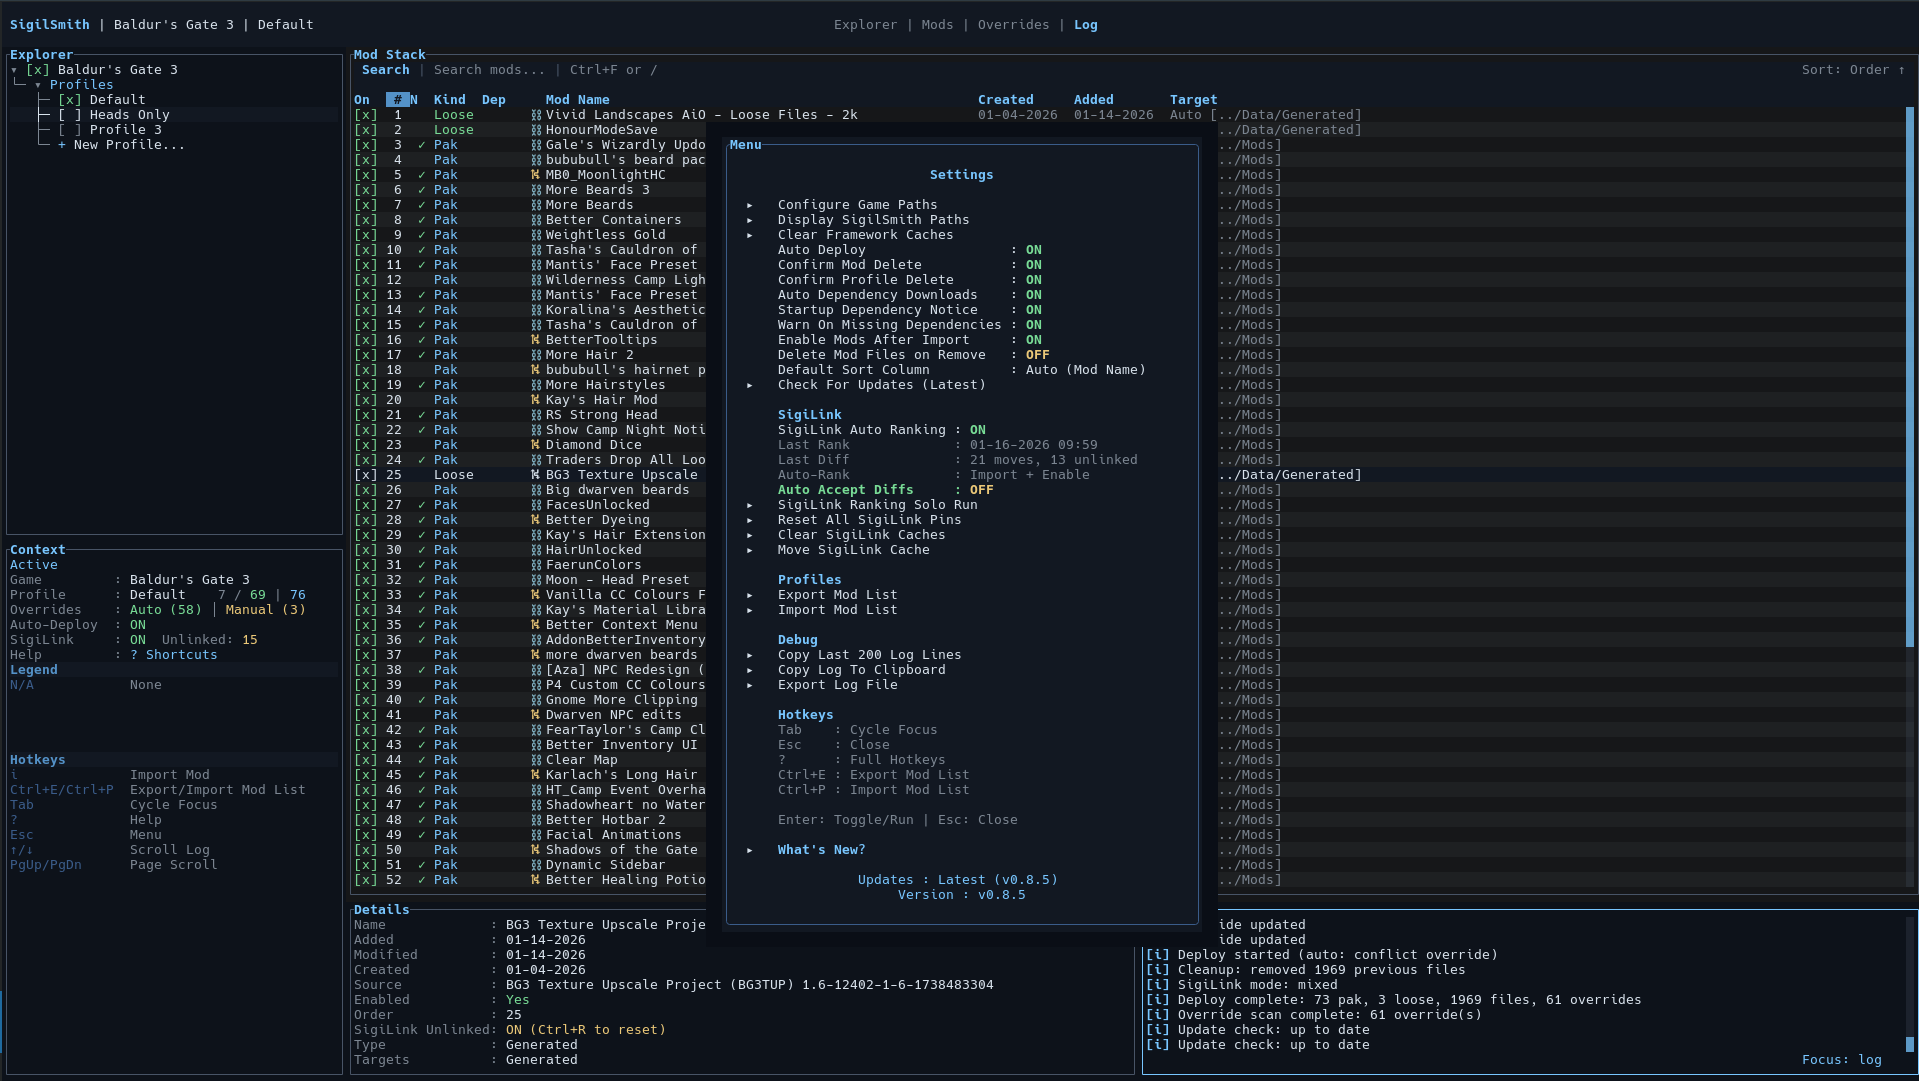
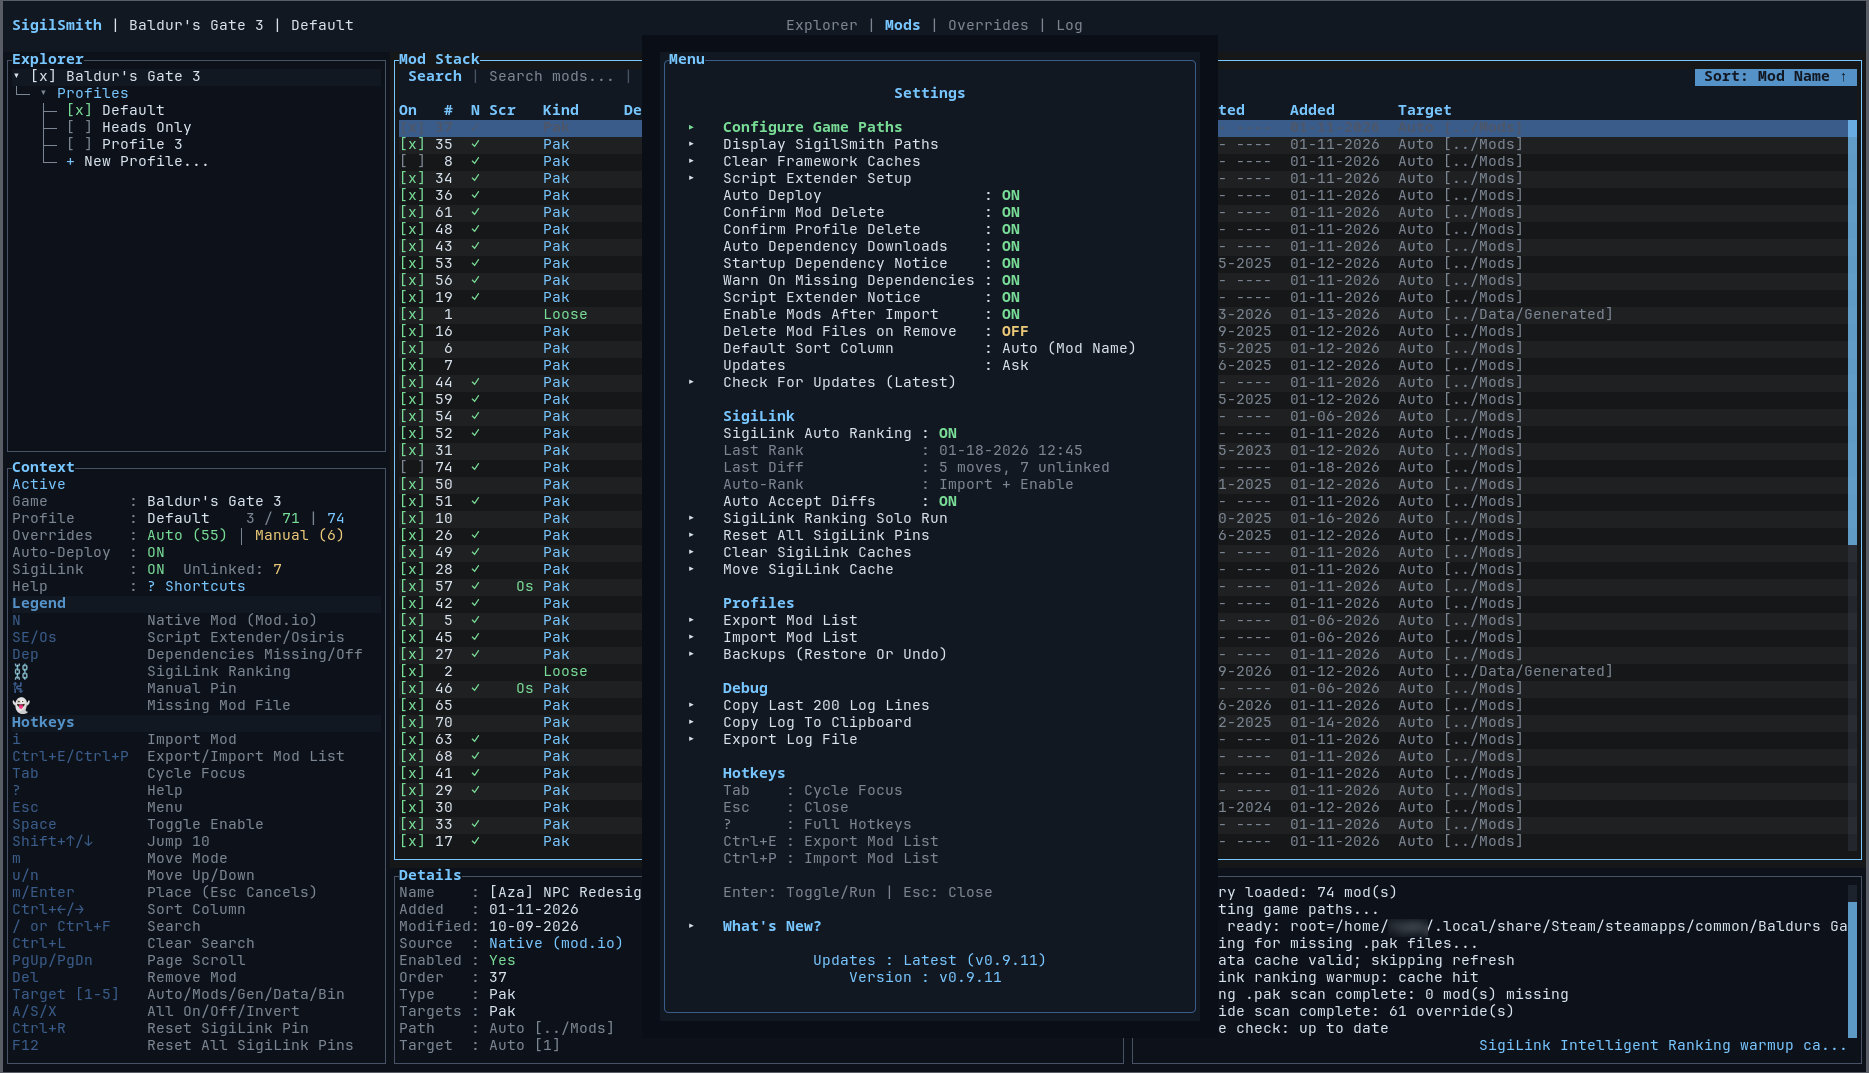
Release v0.9.11

Changed region(s): [[0.0, 0.0, 1.0, 1.0], [0.4345, 0.0, 0.5896, 0.0308]]

diff --git a/CHANGELOG.md b/CHANGELOG.md
@@ -1,5 +1,18 @@
 # Changelog
 
+## 0.9.11
+
+- Fix: some paks name other modules' UUIDs inside their meta.lsx (KaiLime UI is one), and SigilSmith imported those mods under the wrong ID. The in-game mod manager's copy then showed up as a second entry, and the load order could reset. SigilSmith now reads the mod's own UUID. On first start it fixes mods imported with a wrong ID: it backs up the library, renames them, merges the duplicate entry they caused (the mod stays on if either copy was on), and deploys again.
+- Moving between the native Linux build and Proton: when Steam starts BG3 with a different Larian folder than SigilSmith's, SigilSmith asks to move your setup there instead of switching on its own. A move backs up the library, deploy record, both load orders and settings, then takes SigilSmith's links out of the old Mods folder and makes them in the new one, so each mod stays one file in SigilSmith's library. The load order comes along, in-game mods turned on only in the new folder join your list, and saves only the old folder has can be copied over (nothing is overwritten). In-game mods the new folder hasn't downloaded yet stay on your list and join its load order once the game downloads them. A move cut short is offered again at the next start, with Finish or Go back; Go back also puts back the new folder's own load order from the backup. "Don't ask again for this folder" stops the prompt, and Configure Game Paths uses the same move.
+- Deploys only remove files that are still SigilSmith's own links, checked by the link's target or the hardlink's file identity; anything changed since is left in place with a warning. A file already in the way is moved to `set-aside/` in SigilSmith's data folder and put back when SigilSmith's link goes away, even if a deploy was cut short. Quitting during a deploy waits for it to finish, and deploys wait for the startup read of the game's load order.
+- Startup checks the last deploy: links that went missing, or that are still in a folder SigilSmith isn't set to, are fixed by deploying again. Links to SigilSmith's library that no deploy recorded (left from an earlier setup) can be removed after asking.
+- Enabled mods with no file in the Mods folder are left out of modsettings.lsx and listed in the log, instead of written as entries BG3 drops. The native mod sync no longer reads SigilSmith's own modsettings write as a change.
+- After a crash, BG3 leaves `ModCrashSanityCheck` in its Larian folder and turns every mod off on the next launch. SigilSmith removes it at startup and on deploy, only while BG3 isn't running.
+- Script Extender: BG3LE, the Script Extender for the native Linux build, is detected, and the checklist then looks for it in Steam's launch options instead of asking for Proton. For Lutris, Heroic, Bottles and other launchers, the checklist says which setting is up to the launcher and copies the DWrite override; SigilSmith never changes other launchers' settings.
+- Configure Game Paths now always asks for the Larian folder after the game root, starting at the one Steam uses, and lists the folders it finds: Steam's native and Proton folders, and BG3 prefixes from Lutris, Heroic, Faugus and Bottles (read only). Folders inside a Wine prefix are shown by their prefix (such as `…/compatdata/1086940`), here and in the move dialogs, so long paths stay readable.
+- In-game mods the new folder hasn't downloaded yet no longer open the "SigiLink missing mod files" popup after a move; they are listed in the log and marked missing until the game downloads them. Settings no longer reopens over a move's results, and the What's New banner no longer ends in "...".
+- Backups also keep `config.json`, so each backup records which Larian folder it was for.
+
 ## 0.9.10
 
 - Backups list: `b` (or Settings → Backups) lists the newest 50 backups with when each was made, what started that deploy, and a color-coded summary of what restoring it would change; a details pane lists the mods under labels (Moved, On, Off, Re-added, Removed, and so on). Restoring asks first, shows the full list, defaults to Cancel, and saves your current setup as "Before restore" so it can be undone from the same list. Before, `b` restored only the last backup, with no prompt.
